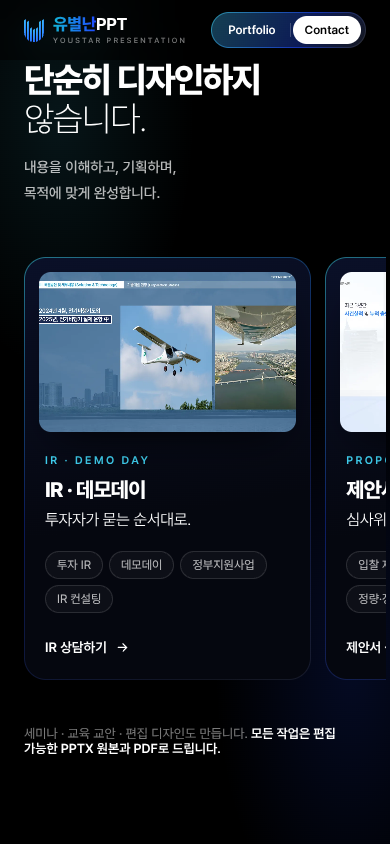
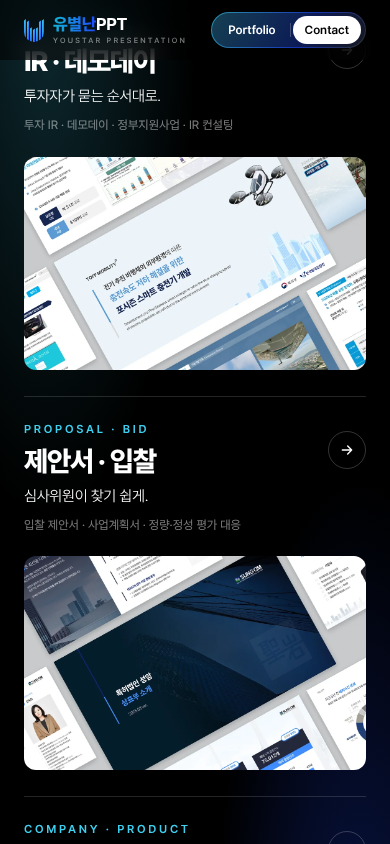
v2: services as borderless editorial list with cursor-following mockup; neon accents
- 서비스: 카드 대신 얇은 선으로 나눈 큰 글자 3줄, 마우스 올린 줄만 밝아지고 목업이 커서를 따라 떠오름 (모바일은 목업을 줄 아래에)
- 네온: 발표장 '작업 사례 보기' 버튼, 숫자 섹션 숫자 4개, IR 300건+ 에 청록·파랑 빛이 은은하게 숨 쉬듯, 숫자 뒤로 빛이 좌우로 천천히 이동

Claude-Session: https://claude.ai/code/session_01NURhbB6Mq8R8WnaczfYj5a

diff --git a/redesign/v2/index.html b/redesign/v2/index.html
@@ -133,7 +133,7 @@ a{color:inherit;text-decoration:none}
   .tile img{zoom:.72}
 }
 
-/* 네 번째: 서비스 — 큰 선언 + 세 장의 카드 (마우스에 따라 기울고 빛이 따라온다) */
+/* 네 번째: 서비스 — 상자 없는 큰 글자 목록. 마우스를 올리면 그 서비스 목업이 커서를 따라 떠오른다 */
 .svc{position:relative;padding:150px 0 140px;isolation:isolate}
 .svc::before{content:"";position:absolute;inset:0;z-index:-1;background:radial-gradient(ellipse 55% 45% at 12% 18%,rgba(63,208,240,.2),transparent 70%),radial-gradient(ellipse 55% 50% at 92% 82%,rgba(31,75,255,.3),transparent 70%)}
 .svc__head{display:grid;grid-template-columns:1.25fr 1fr;align-items:end;gap:40px}
@@ -141,40 +141,54 @@ a{color:inherit;text-decoration:none}
 .svc__head h2{margin:16px 0 0;font-size:clamp(34px,4.4vw,64px);line-height:1.12;letter-spacing:-.045em}
 .svc__head h2 b{font-weight:800}.svc__head h2 span{font-weight:250}
 .svc__head p{margin:0 0 10px;font-size:16px;line-height:1.8;color:var(--ink-2);font-weight:500}
-.cards{display:grid;grid-template-columns:repeat(3,1fr);gap:22px;margin-top:72px;perspective:1200px}
-.card{position:relative;display:flex;flex-direction:column;border-radius:22px;padding:1px;background:linear-gradient(150deg,rgba(63,208,240,.55),rgba(31,75,255,.35) 45%,rgba(255,255,255,.08));transform:rotateX(var(--rx,0deg)) rotateY(var(--ry,0deg));transform-style:preserve-3d;transition:transform .5s var(--ease),box-shadow .5s;opacity:0;translate:0 30px}
-.cards.is-in .card{opacity:1;translate:0 0;transition:transform .5s var(--ease),box-shadow .5s,opacity 1s var(--ease),translate 1s var(--ease)}
-.cards.is-in .card:nth-child(2){transition-delay:0s,0s,.15s,.15s}.cards.is-in .card:nth-child(3){transition-delay:0s,0s,.3s,.3s}
-.card:hover{box-shadow:0 30px 80px -30px rgba(31,90,255,.7)}
-.card__in{position:relative;flex:1;display:flex;flex-direction:column;border-radius:21px;overflow:hidden;background:linear-gradient(170deg,#0a1028,#05070f 60%)}
-.card__in::after{content:"";position:absolute;inset:0;pointer-events:none;background:radial-gradient(420px circle at var(--mx,50%) var(--my,0%),rgba(120,200,255,.16),transparent 60%);opacity:0;transition:opacity .4s}
-.card:hover .card__in::after{opacity:1}
-.card__img{position:relative;aspect-ratio:4/3;margin:14px 14px 0;border-radius:12px;overflow:hidden;box-shadow:0 20px 40px -20px rgba(0,0,0,.9)}
-.card__img img{width:100%;height:100%;object-fit:cover;display:block;transition:transform 1.2s var(--ease)}
-.card:hover .card__img img{transform:scale(1.05)}
-.card__body{padding:26px 26px 28px;display:flex;flex-direction:column;flex:1}
-.card__body i{font-style:normal;font-size:11px;font-weight:600;letter-spacing:.22em;color:#3fd0f0}
-.card__body h3{margin:10px 0 0;font-size:24px;font-weight:800;letter-spacing:-.035em}
-.card__body p{margin:8px 0 0;font-size:16px;font-weight:300;color:#fff;letter-spacing:-.02em}
-.card__body ul{display:flex;flex-wrap:wrap;gap:6px;margin:22px 0 0;padding:0;list-style:none}
-.card__body li{height:28px;display:inline-flex;align-items:center;padding:0 11px;border-radius:999px;font-size:12px;color:var(--ink-2);border:1px solid rgba(255,255,255,.12);background:rgba(255,255,255,.03)}
-.card__more{display:inline-flex;align-items:center;gap:8px;margin-top:auto;padding-top:26px;font-size:13.5px;font-weight:600;color:#fff}
-.card__more svg{width:15px;height:15px;transition:transform .4s var(--ease)}
-.card:hover .card__more svg{transform:translateX(4px)}
-.svc__foot{margin:40px 0 0;text-align:center;font-size:14px;color:var(--ink-3)}
+.slist{margin:80px 0 0;padding:0;list-style:none;border-bottom:1px solid rgba(255,255,255,.14)}
+.srow{position:relative;display:grid;grid-template-columns:minmax(0,1.35fr) minmax(0,1fr) minmax(0,1fr) 44px;align-items:center;gap:28px;padding:38px 4px;border-top:1px solid rgba(255,255,255,.14);transition:opacity .45s var(--ease),padding .5s var(--ease)}
+.srow::before{content:"";position:absolute;left:0;top:-1px;height:1px;width:100%;transform:scaleX(0);transform-origin:left;background:linear-gradient(90deg,#3fd0f0,#1f4bff);box-shadow:0 0 12px rgba(63,208,240,.8);transition:transform .7s var(--ease)}
+.srow__name{font-size:clamp(30px,3.4vw,50px);font-weight:800;letter-spacing:-.045em;line-height:1.1;white-space:nowrap}
+.srow__name small{display:block;margin-bottom:10px;font-size:11.5px;font-weight:600;letter-spacing:.24em;color:#3fd0f0}
+.srow__desc{font-size:18px;font-weight:300;letter-spacing:-.02em;color:#fff}
+.srow__tags{font-size:13px;line-height:1.8;color:var(--ink-3)}
+.srow i{font-style:normal;justify-self:end;display:grid;place-items:center;width:44px;height:44px;border-radius:50%;border:1px solid rgba(255,255,255,.2);transition:all .45s var(--ease)}
+.srow i svg{width:16px;height:16px}
+.srow__m{display:none}
+.slist:hover .srow{opacity:.32}
+.slist .srow:hover{opacity:1;padding-left:18px}
+.srow:hover::before{transform:scaleX(1)}
+.srow:hover i{background:linear-gradient(120deg,#16b6dc,#1f4bff);border-color:transparent;transform:rotate(-45deg)}
+.sfloat{position:fixed;left:0;top:0;z-index:30;width:360px;aspect-ratio:4/3;border-radius:16px;overflow:hidden;pointer-events:none;opacity:0;transform:translate(-50%,-50%) rotate(-6deg) scale(.6);transition:opacity .35s var(--ease),transform .5s var(--ease);box-shadow:0 30px 80px -20px rgba(0,0,0,.9),0 0 0 1px rgba(255,255,255,.12),0 0 60px -10px rgba(31,110,255,.6)}
+.sfloat.is-on{opacity:1;transform:translate(-50%,-50%) rotate(-4deg) scale(1)}
+.sfloat img{position:absolute;inset:0;width:100%;height:100%;object-fit:cover;opacity:0;transition:opacity .35s}
+.sfloat img.on{opacity:1}
+.svc__foot{margin:36px 0 0;font-size:14px;color:var(--ink-3)}
 .svc__foot b{color:#fff;font-weight:600}
 @media (max-width:860px){
   .svc{padding:96px 0 88px}
   .svc__head{grid-template-columns:1fr;gap:16px}
   .svc__head h2{font-size:clamp(32px,9vw,40px)}
   .svc__head p{font-size:14.5px}
-  .cards{display:flex;gap:14px;margin:40px -20px 0;padding:0 20px 6px;overflow-x:auto;scroll-snap-type:x mandatory;scroll-padding-left:20px;scrollbar-width:none}
-  .cards::-webkit-scrollbar{display:none}
-  .card{flex:0 0 84%;scroll-snap-align:start;transform:none!important}
-  .card__body{padding:22px 20px 24px}
-  .card__body h3{font-size:21px}
-  .svc__foot{text-align:left;font-size:13px}
+  .slist{margin-top:40px}
+  .srow{grid-template-columns:1fr 40px;gap:10px 14px;padding:26px 0}
+  .srow__name{font-size:28px}
+  .srow__desc{grid-column:1;font-size:15px}
+  .srow__tags{grid-column:1 / -1;font-size:12px}
+  .srow i{grid-column:2;grid-row:1;width:38px;height:38px}
+  .srow__m{display:block;grid-column:1 / -1;margin-top:10px;border-radius:12px;aspect-ratio:16/10;width:100%;object-fit:cover}
+  .slist:hover .srow{opacity:1}
+  .slist .srow:hover{padding-left:0}
+  .sfloat{display:none}
+  .svc__foot{font-size:13px}
 }
+
+/* 섹션마다 핵심 요소에 첫 화면 빛과 같은 청록·파랑 네온을 은은하게 */
+@keyframes neonbtn{0%,100%{box-shadow:0 0 0 1px rgba(63,208,240,.25),0 0 22px 2px rgba(63,208,240,.35),0 0 60px 8px rgba(31,75,255,.22)}50%{box-shadow:0 0 0 1px rgba(31,75,255,.35),0 0 26px 3px rgba(31,110,255,.45),0 0 70px 12px rgba(63,208,240,.18)}}
+.neon-btn{animation:neonbtn 4.5s ease-in-out infinite}
+@keyframes neontxt{0%,100%{filter:drop-shadow(0 0 14px rgba(63,208,240,.45)) drop-shadow(0 0 40px rgba(31,75,255,.25))}50%{filter:drop-shadow(0 0 18px rgba(31,110,255,.55)) drop-shadow(0 0 46px rgba(63,208,240,.2))}}
+.neon-txt{animation:neontxt 5s ease-in-out infinite}
+.stats{position:relative;isolation:isolate}
+.stats::before{content:"";position:absolute;z-index:-1;left:10%;right:10%;top:-30%;bottom:-30%;background:radial-gradient(ellipse 30% 60% at var(--bx,30%) 50%,rgba(63,208,240,.18),transparent 70%),radial-gradient(ellipse 30% 60% at calc(100% - var(--bx,30%)) 50%,rgba(31,75,255,.22),transparent 70%);filter:blur(10px);animation:statsbeam 12s ease-in-out infinite}
+@property --bx{syntax:"<percentage>";initial-value:30%;inherits:false}
+@keyframes statsbeam{50%{--bx:70%}}
+@media (prefers-reduced-motion:reduce){.neon-btn,.neon-txt,.stats::before{animation:none}}
 
 /* 다섯 번째: IR · 데모데이 — 잘하는 이유 네 가지, 한 줄. 활성 카드가 넓어지며 차례로 넘어간다 */
 .irx{position:relative;padding:150px 0;isolation:isolate;overflow:hidden}
@@ -308,7 +322,7 @@ a{color:inherit;text-decoration:none}
       <small>On Stage</small>
       <h2><b>띄워지는 순간,</b><br><span>완성은 달라집니다.</span></h2>
       <p>발표장의 큰 스크린까지 생각하고 만듭니다.</p>
-      <a class="gbtn" href="../../portfolio.html">작업 사례 보기<svg viewBox="0 0 24 24" fill="none" stroke="currentColor" stroke-width="2" stroke-linecap="round" stroke-linejoin="round"><path d="M5 12h14M13 6l6 6-6 6"/></svg></a>
+      <a class="gbtn neon-btn" href="../../portfolio.html">작업 사례 보기<svg viewBox="0 0 24 24" fill="none" stroke="currentColor" stroke-width="2" stroke-linecap="round" stroke-linejoin="round"><path d="M5 12h14M13 6l6 6-6 6"/></svg></a>
     </div>
     <div class="show__cap" aria-live="polite"><span class="show__bar"><i id="showBar"></i></span><b id="showName"></b></div>
   </div>
@@ -320,10 +334,10 @@ a{color:inherit;text-decoration:none}
       <h2><b>숫자가</b> <span>먼저 말합니다.</span></h2>
     </div>
     <div class="stats" id="stats">
-      <div class="stat"><b data-to="642">0<em>건+</em></b><span>누적 작업</span><small>IR · 제안서 · 회사소개서</small></div>
-      <div class="stat"><b data-to="4.9" data-dec="1">0<em>/5</em></b><span>고객 평점</span><small>외부 플랫폼 기준</small></div>
-      <div class="stat"><b data-to="359">0<em>건</em></b><span>공식 고객후기</span><small>실제 의뢰 고객 작성</small></div>
-      <div class="stat"><b data-to="300">0<em>건+</em></b><span>IR · 데모데이</span><small>누적 제작</small></div>
+      <div class="stat"><b class="neon-txt" data-to="642">0<em>건+</em></b><span>누적 작업</span><small>IR · 제안서 · 회사소개서</small></div>
+      <div class="stat"><b class="neon-txt" data-to="4.9" data-dec="1">0<em>/5</em></b><span>고객 평점</span><small>외부 플랫폼 기준</small></div>
+      <div class="stat"><b class="neon-txt" data-to="359">0<em>건</em></b><span>공식 고객후기</span><small>실제 의뢰 고객 작성</small></div>
+      <div class="stat"><b class="neon-txt" data-to="300">0<em>건+</em></b><span>IR · 데모데이</span><small>누적 제작</small></div>
     </div>
     <div class="quote" id="quote" aria-live="polite">
       <p class="is-on"><i>★★★★★</i><q>벌써 8번째 의뢰, 자료의 톤앤매너를 완벽하게 캐치합니다.</q></p>
@@ -343,19 +357,16 @@ a{color:inherit;text-decoration:none}
       <div><small>Services</small><h2><b>단순히 디자인하지</b><br><span>않습니다.</span></h2></div>
       <p>내용을 이해하고, 기획하며, 목적에 맞게 완성합니다.</p>
     </div>
-    <div class="cards" id="cards">
-      <a class="card" href="#contact"><div class="card__in"><div class="card__img"><img src="assets/slides/svc-ir.webp" alt="토프모빌리티 사업계획 장표 목업" loading="lazy"></div><div class="card__body"><i>IR · DEMO DAY</i><h3>IR · 데모데이</h3><p>투자자가 묻는 순서대로.</p><ul><li>투자 IR</li><li>데모데이</li><li>정부지원사업</li><li>IR 컨설팅</li></ul><span class="card__more">IR 상담하기<svg viewBox="0 0 24 24" fill="none" stroke="currentColor" stroke-width="2" stroke-linecap="round" stroke-linejoin="round"><path d="M5 12h14M13 6l6 6-6 6"/></svg></span></div></div></a>
-      <a class="card" href="#contact"><div class="card__in"><div class="card__img"><img src="assets/slides/svc-prop.webp" alt="특허법인 성암 회사소개 장표 목업" loading="lazy"></div><div class="card__body"><i>PROPOSAL · BID</i><h3>제안서 · 입찰</h3><p>심사위원이 찾기 쉽게.</p><ul><li>입찰 제안서</li><li>사업계획서</li><li>정량·정성 평가 대응</li></ul><span class="card__more">제안서 상담하기<svg viewBox="0 0 24 24" fill="none" stroke="currentColor" stroke-width="2" stroke-linecap="round" stroke-linejoin="round"><path d="M5 12h14M13 6l6 6-6 6"/></svg></span></div></div></a>
-      <a class="card" href="#contact"><div class="card__in"><div class="card__img"><img src="assets/slides/svc-intro.webp" alt="사쿠라테이엔 브랜드 소개 장표 목업" loading="lazy"></div><div class="card__body"><i>COMPANY · PRODUCT</i><h3>회사 · 제품 소개서</h3><p>처음 보는 사람도 한 번에.</p><ul><li>회사소개서</li><li>제품·서비스 소개</li><li>브랜드북</li></ul><span class="card__more">소개서 상담하기<svg viewBox="0 0 24 24" fill="none" stroke="currentColor" stroke-width="2" stroke-linecap="round" stroke-linejoin="round"><path d="M5 12h14M13 6l6 6-6 6"/></svg></span></div></div></a>
-    </div>
+    <ul class="slist" id="slist"><li><a class="srow" href="#contact" data-i="0"><span class="srow__name"><small>IR · DEMO DAY</small>IR · 데모데이</span><span class="srow__desc">투자자가 묻는 순서대로.</span><span class="srow__tags">투자 IR · 데모데이 · 정부지원사업 · IR 컨설팅</span><i><svg viewBox="0 0 24 24" fill="none" stroke="currentColor" stroke-width="2" stroke-linecap="round" stroke-linejoin="round"><path d="M5 12h14M13 6l6 6-6 6"/></svg></i><img class="srow__m" src="assets/slides/svc-ir.webp" alt="토프모빌리티 장표 목업" loading="lazy"></a></li><li><a class="srow" href="#contact" data-i="1"><span class="srow__name"><small>PROPOSAL · BID</small>제안서 · 입찰</span><span class="srow__desc">심사위원이 찾기 쉽게.</span><span class="srow__tags">입찰 제안서 · 사업계획서 · 정량·정성 평가 대응</span><i><svg viewBox="0 0 24 24" fill="none" stroke="currentColor" stroke-width="2" stroke-linecap="round" stroke-linejoin="round"><path d="M5 12h14M13 6l6 6-6 6"/></svg></i><img class="srow__m" src="assets/slides/svc-prop.webp" alt="특허법인 성암 장표 목업" loading="lazy"></a></li><li><a class="srow" href="#contact" data-i="2"><span class="srow__name"><small>COMPANY · PRODUCT</small>회사 · 제품 소개서</span><span class="srow__desc">처음 보는 사람도 한 번에.</span><span class="srow__tags">회사소개서 · 제품·서비스 소개 · 브랜드북</span><i><svg viewBox="0 0 24 24" fill="none" stroke="currentColor" stroke-width="2" stroke-linecap="round" stroke-linejoin="round"><path d="M5 12h14M13 6l6 6-6 6"/></svg></i><img class="srow__m" src="assets/slides/svc-intro.webp" alt="사쿠라테이엔 장표 목업" loading="lazy"></a></li></ul>
     <p class="svc__foot">세미나 · 교육 교안 · 편집 디자인도 만듭니다. <b>모든 작업은 편집 가능한 PPTX 원본과 PDF로 드립니다.</b></p>
   </div>
+  <div class="sfloat" id="sfloat" aria-hidden="true"><img src="assets/slides/svc-ir.webp" alt=""><img src="assets/slides/svc-prop.webp" alt=""><img src="assets/slides/svc-intro.webp" alt=""></div>
 </section>
 <section class="irx" id="ir">
   <div class="wrap">
     <div class="irx__head">
       <div><small class="k">IR · Demo Day</small><h2><b>데모데이 IR,</b><br class="mbr"> <span>이렇게 다릅니다.</span></h2></div>
-      <div class="irx__chip"><b>300<em>건+</em></b><span>IR · 데모데이 누적</span></div>
+      <div class="irx__chip"><b class="neon-txt">300<em>건+</em></b><span>IR · 데모데이 누적</span></div>
     </div>
     <div class="why" id="why">
       <article class="wc is-act"><div class="wc__in"><i class="t">IR 이해도</i><h3>투자자가 묻는<br>순서대로.</h3><p>심사 흐름에 맞춰 장표 순서부터 다시 잡습니다.</p><div class="wc__vis"><div class="qs" id="qs"><span data-n="01">왜 지금인가</span><span data-n="02">시장은 얼마나 큰가</span><span data-n="03">어떻게 버는가</span><span data-n="04">숫자로 증명됐나</span><span data-n="05">누가 하는가</span></div></div></div></article>
@@ -593,19 +604,6 @@ a{color:inherit;text-decoration:none}
 </script>
 <script>
 (() => {
-  const cards = document.getElementById("cards"); if (!cards) return;
-  new IntersectionObserver((es, o) => es.forEach((e) => { if (e.isIntersecting) { cards.classList.add("is-in"); o.disconnect(); } }), { threshold: .25 }).observe(cards);
-  if (!matchMedia("(pointer: fine)").matches || matchMedia("(prefers-reduced-motion: reduce)").matches) return;
-  cards.querySelectorAll(".card").forEach((c) => {
-    c.addEventListener("pointermove", (e) => { const r = c.getBoundingClientRect(), x = (e.clientX - r.left) / r.width, y = (e.clientY - r.top) / r.height;
-      c.style.setProperty("--ry", ((x - .5) * 8).toFixed(2) + "deg"); c.style.setProperty("--rx", ((.5 - y) * 6).toFixed(2) + "deg");
-      c.style.setProperty("--mx", (x * 100).toFixed(1) + "%"); c.style.setProperty("--my", (y * 100).toFixed(1) + "%"); });
-    c.addEventListener("pointerleave", () => { c.style.setProperty("--rx", "0deg"); c.style.setProperty("--ry", "0deg"); });
-  });
-})();
-</script>
-<script>
-(() => {
   const why = document.getElementById("why"); if (!why) return;
   const reduce = matchMedia("(prefers-reduced-motion: reduce)").matches, desk = () => innerWidth > 860;
   const cards = [...why.querySelectorAll(".wc")], bars = [...document.querySelectorAll("#whyBar i")];
@@ -625,6 +623,20 @@ a{color:inherit;text-decoration:none}
     if (on) { why.classList.add("is-in"); if (reduce) { qs.concat(chk).forEach((x) => x.classList.add("on")); return; } if (!cyc) { setAct(act); tick(); cyc = setInterval(tick, 700); } }
     else if (cyc) { clearInterval(cyc); cyc = 0; }
   }, { threshold: .2 }).observe(why);
+})();
+</script>
+<script>
+(() => {
+  const list = document.getElementById("slist"), fl = document.getElementById("sfloat"); if (!list || !fl) return;
+  if (!matchMedia("(pointer: fine)").matches) return;
+  const imgs = [...fl.querySelectorAll("img")]; let x = 0, y = 0, tx = 0, ty = 0, raf = 0, on = false;
+  const loop = () => { x += (tx - x) * .14; y += (ty - y) * .14; fl.style.left = x + "px"; fl.style.top = y + "px"; raf = on || Math.abs(tx - x) > .5 ? requestAnimationFrame(loop) : 0; };
+  list.querySelectorAll(".srow").forEach((r) => {
+    r.addEventListener("pointerenter", (e) => { on = true; if (!fl.classList.contains("is-on")) { x = tx = e.clientX + 200; y = ty = e.clientY; } imgs.forEach((im, i) => im.classList.toggle("on", i === +r.dataset.i)); fl.classList.add("is-on"); if (!raf) raf = requestAnimationFrame(loop); });
+  });
+  list.addEventListener("pointermove", (e) => { tx = e.clientX + 200; ty = e.clientY; });
+  list.addEventListener("pointerleave", () => { on = false; fl.classList.remove("is-on"); });
+  addEventListener("scroll", () => { if (on) { on = false; fl.classList.remove("is-on"); } }, { passive: true });
 })();
 </script>
 
